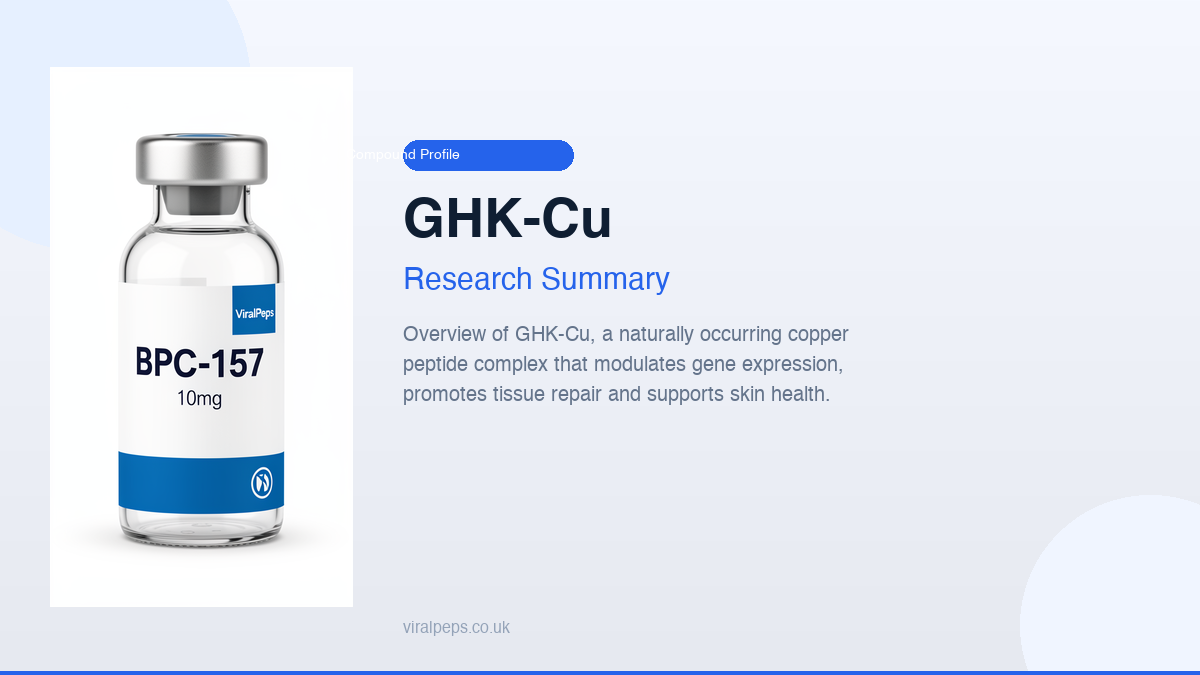
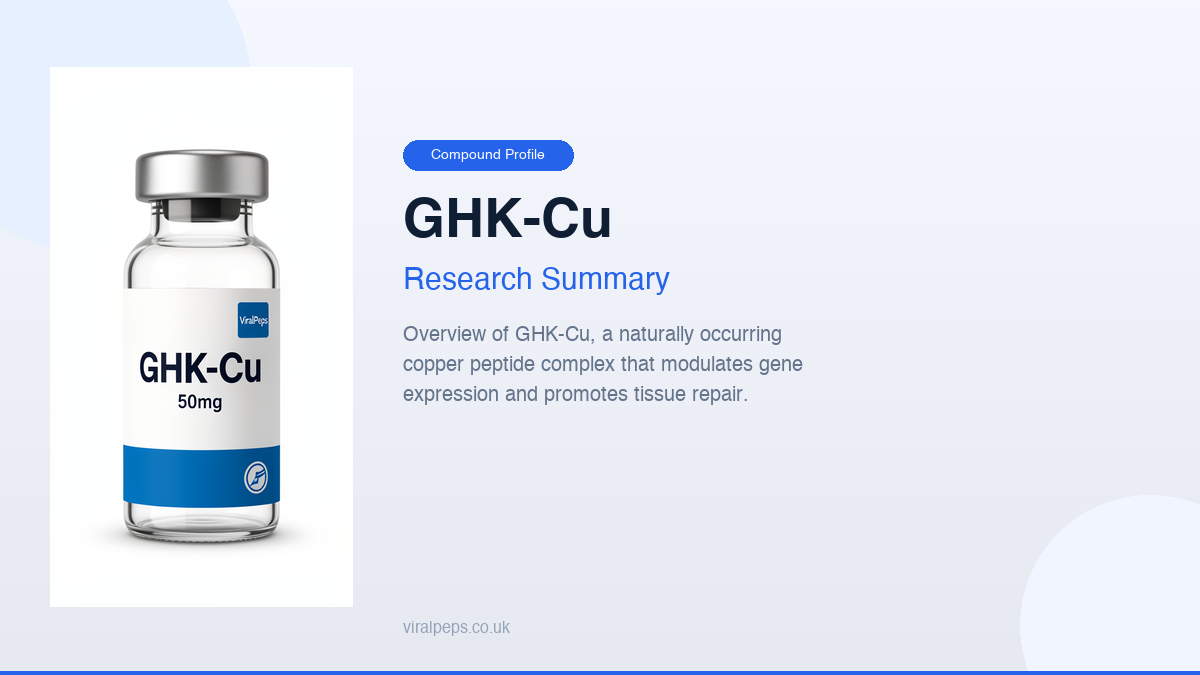
Fix GHK-Cu and Retatrutide cards: correct branded vials

Changed region(s): [[0.0925, 0.1867, 0.2467, 0.84], [0.3392, 0.4667, 0.7092, 0.5911], [0.3392, 0.2178, 0.4625, 0.2489]]

diff --git a/scripts/make_ghk_reta_cards.py b/scripts/make_ghk_reta_cards.py
@@ -1,0 +1,72 @@
+from PIL import Image, ImageDraw, ImageFont
+import os, sys
+
+def make_card(compound, dosage, category, subheading, desc_lines, vial_source, output_path):
+    card_w, card_h = 1200, 675
+    card = Image.new("RGB", (card_w, card_h), (255, 255, 255))
+    draw = ImageDraw.Draw(card)
+
+    # Gradient bg
+    for y in range(card_h):
+        ratio = y / card_h
+        r = int(245 - ratio * 15)
+        g = int(248 - ratio * 15)
+        b = int(255 - ratio * 15)
+        for x in range(card_w):
+            draw.point((x, y), fill=(r, g, b))
+
+    # Decorative circles
+    draw.ellipse([-80, -80, 250, 250], fill=(230, 240, 255))
+    draw.ellipse([card_w - 180, card_h - 180, card_w + 80, card_h + 80], fill=(240, 245, 255))
+
+    # Vial
+    vial = Image.open(vial_source)
+    vr = vial.width / vial.height
+    th = int(card_h * 0.8)
+    tw = int(th * vr)
+    if tw > card_w // 2 - 40:
+        tw = card_w // 2 - 60
+        th = int(tw / vr)
+    vial_r = vial.resize((tw, th), Image.LANCZOS)
+    vx, vy = 50, (card_h - th) // 2
+    card.paste(vial_r, (vx, vy), vial_r if vial.mode == "RGBA" else None)
+
+    # Fonts
+    h = "/System/Library/Fonts/Helvetica.ttc"
+    if os.path.exists(h):
+        tf = ImageFont.truetype(h, 54, index=1)
+        sf = ImageFont.truetype(h, 30)
+        bf = ImageFont.truetype(h, 14)
+        df = ImageFont.truetype(h, 20)
+        smf = ImageFont.truetype(h, 16)
+    else:
+        tf = sf = bf = df = smf = ImageFont.load_default()
+
+    tx = vx + tw + 50
+    bx, by = tx, 140
+    draw.rounded_rectangle([bx, by, bx + 170, by + 30], radius=15, fill=(37, 99, 235))
+    draw.text((bx + 85, by + 15), category, fill=(255, 255, 255), font=bf, anchor="mm")
+    draw.text((tx, by + 55), compound, fill=(15, 30, 50), font=tf)
+    draw.text((tx, by + 125), subheading, fill=(37, 99, 235), font=sf)
+    yo = by + 185
+    for line in desc_lines:
+        draw.text((tx, yo), line, fill=(100, 116, 139), font=df)
+        yo += 30
+    draw.text((tx, card_h - 55), "viralpeps.co.uk", fill=(148, 163, 184), font=smf)
+    draw.rounded_rectangle([0, card_h - 4, card_w, card_h], radius=0, fill=(37, 99, 235))
+
+    card.save(output_path, "PNG", quality=97)
+    sz = os.path.getsize(output_path)
+    print(f"✓ {output_path} ({sz} bytes)")
+
+# GHK-Cu
+make_card("GHK-Cu", "50mg", "Compound Profile", "Research Summary",
+    ["Overview of GHK-Cu, a naturally occurring", "copper peptide complex that modulates gene", "expression and promotes tissue repair."],
+    "public/images/compounds/ghk-cu-vial.png",
+    "public/images/guides/ghkcu-summary.png")
+
+# Retatrutide
+make_card("Retatrutide", "10mg", "Compound Profile", "Research Summary",
+    ["Overview of Retatrutide (LY3437943), a", "first-in-class triple GLP-1/GIP/glucagon", "receptor agonist for metabolic research."],
+    "public/images/compounds/retatrutide-vial.png",
+    "public/images/guides/retatrutide-summary.png")